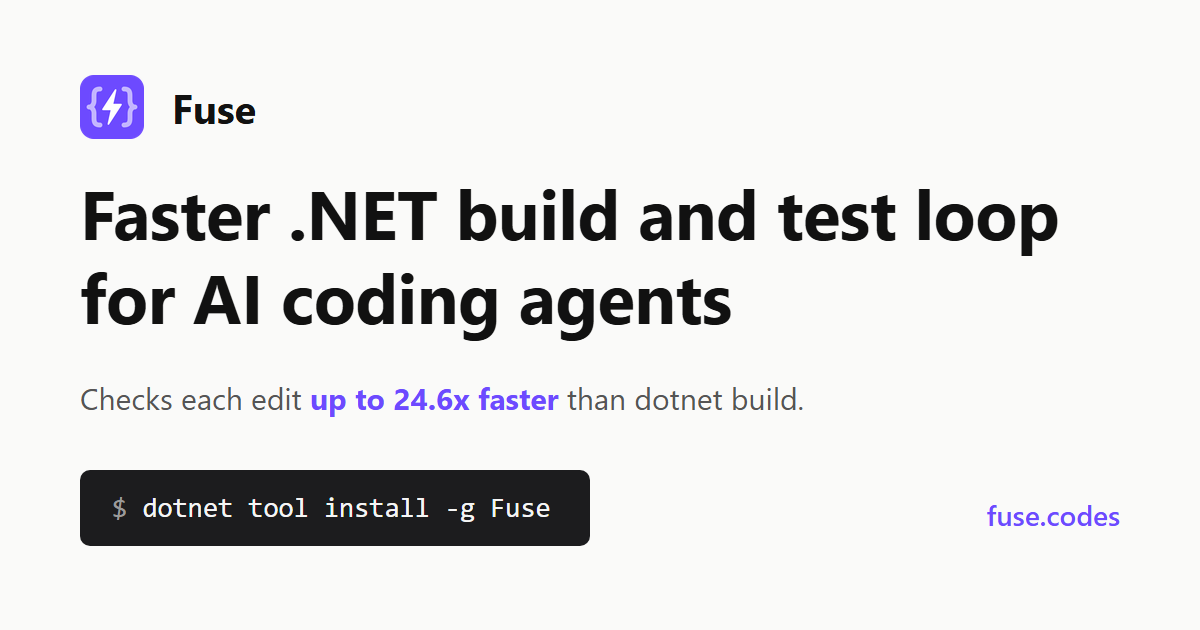
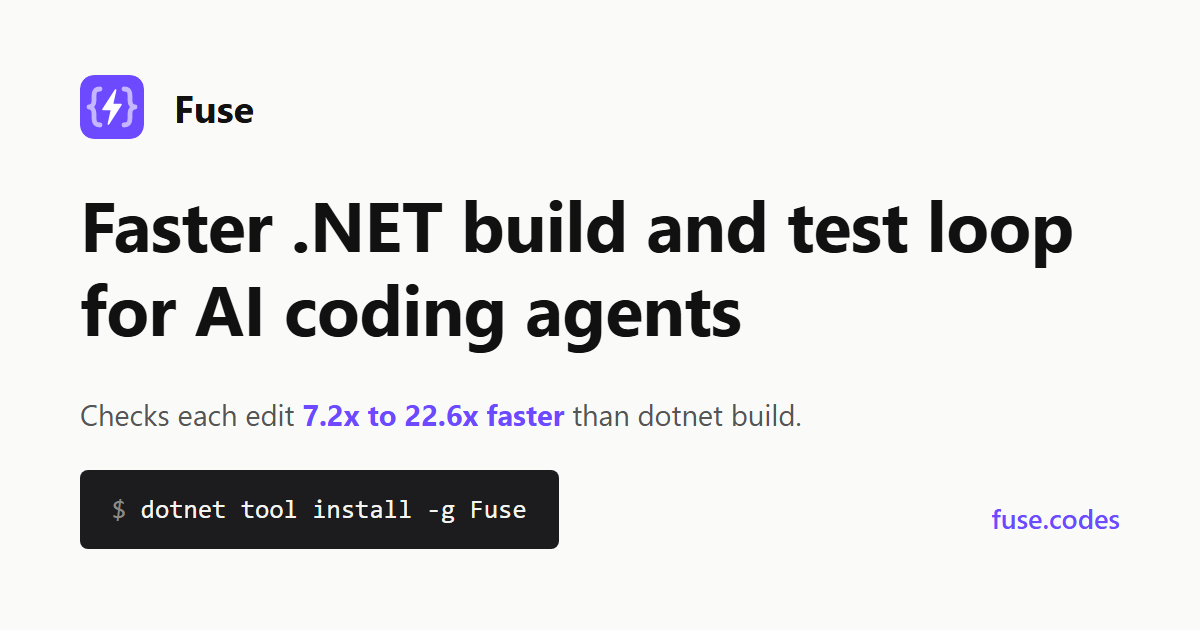
Quote the open-source speedups in the headlines, and the measured test speedup
The headlines quoted the generated fixture's 24.6x check speedup, the most
favorable of the four results, and the README quoted 5.7x for tests, which
is the fixture's dotnet test time in seconds. They now quote 7.2x to 22.6x
on the three open-source repositories and up to 4.4x for tests. The
benchmarks page adds the total time over all 30 edits per repository, and
the chart and the home page show the open-source repositories only.

Closes #64
Closes #76

Assisted-by: Claude Code (claude-opus-5-5)

diff --git a/site/docs/benchmarks.html b/site/docs/benchmarks.html
@@ -20,12 +20,12 @@
 <meta property="og:image:type" content="image/png">
 <meta property="og:image:width" content="1200">
 <meta property="og:image:height" content="630">
-<meta property="og:image:alt" content="The Fuse icon and name above the text: Faster .NET build and test loop for AI coding agents. Checks each edit up to 24.6x faster than dotnet build. dotnet tool install -g Fuse.">
+<meta property="og:image:alt" content="The Fuse icon and name above the text: Faster .NET build and test loop for AI coding agents. Checks each edit 7.2x to 22.6x faster than dotnet build. dotnet tool install -g Fuse.">
 <meta name="twitter:card" content="summary_large_image">
 <meta name="twitter:title" content="Benchmarks">
 <meta name="twitter:description" content="Benchmarks of Fuse against dotnet build and dotnet test on a small fixture and on NodaTime, Jellyfin and the .NET Community Toolkit.">
 <meta name="twitter:image" content="https://fuse.codes/assets/og.png">
-<meta name="twitter:image:alt" content="The Fuse icon and name above the text: Faster .NET build and test loop for AI coding agents. Checks each edit up to 24.6x faster than dotnet build. dotnet tool install -g Fuse.">
+<meta name="twitter:image:alt" content="The Fuse icon and name above the text: Faster .NET build and test loop for AI coding agents. Checks each edit 7.2x to 22.6x faster than dotnet build. dotnet tool install -g Fuse.">
 <link rel="icon" href="../assets/favicon.png" type="image/png" sizes="48x48">
 <link rel="icon" href="../assets/fuse-icon.svg" type="image/svg+xml" sizes="any">
 <link rel="apple-touch-icon" href="../assets/apple-touch-icon.png">
@@ -110,7 +110,7 @@
     <p class="crumbs"><a href="index.html">Docs</a> / Understand</p>
     <h1>Benchmarks</h1>
     <p class="jump"><a href="#docs-nav">All documentation pages</a></p>
-    <p class="intro">On four repositories, Fuse checked an edit 7.2x to 24.6x faster than <code>dotnet build</code> and ran the affected tests 1.4x to 4.4x faster than <code>dotnet test</code>. It missed 1 compiler error in 120 generated cases (168 edits).</p>
+    <p class="intro">On three open-source repositories, Fuse checked an edit 7.2x to 22.6x faster than <code>dotnet build</code> at the median, took 2.5x to 4.2x less time than the build over all 30 edits of each, and ran the affected tests 1.4x to 4.4x faster than <code>dotnet test</code>. On a small generated solution the median check was 24.6x faster. It missed 1 compiler error in 120 generated cases (168 edits).</p>
     <div class="audience">
       <p><b>This page is for</b> anyone deciding whether to rely on Fuse, and contributors comparing a change with the published numbers.</p>
       <p><b>After reading it</b> you know how fast and how accurate Fuse was, on what, and where each number comes from. <a href="evals.html">Evals</a> explains how the numbers are produced and how to reproduce them.</p>
@@ -118,8 +118,8 @@
     <p>The four repositories are a small generated fixture solution and three open-source repositories: <a href="https://github.com/nodatime/nodatime">NodaTime</a>, a date and time library; <a href="https://github.com/jellyfin/jellyfin">Jellyfin</a>, a media server; and the <a href="https://github.com/CommunityToolkit/dotnet">.NET Community Toolkit</a>, a set of libraries with one source generator for each supported compiler version. The evals in <code>evals/Fuse.Evals</code> run the <code>fuse</code> executable the way an agent does, and compare every answer with a real <code>dotnet build</code> or <code>dotnet test</code>. Each repository ran on its own GitHub Actions <code>windows-latest</code> runner, with 4 logical processors and 16 GB of memory, that ran nothing else (<a href="evals.html#on-github-actions">Evals</a>). On Windows x64 the <code>fuse</code> command is the native client, so the evals measure it.</p>
 
     <figure>
-      <img src="../assets/benefits.svg" width="800" height="708" alt="Two panels that compare Fuse with the dotnet command it replaces on four repositories: one for checking an edit and one for running the affected tests. The table below lists every number.">
-      <figcaption>Medians over the eval cases, on GitHub Actions windows-latest runners. Each dotnet bar is 100 percent, and each Fuse bar is Fuse's time as a share of it.</figcaption>
+      <img src="../assets/benefits.svg" width="800" height="708" alt="Two panels that compare Fuse with the dotnet command it replaces on the three open-source repositories: one for checking an edit and one for running the affected tests. The table below lists every number, the small solution's included.">
+      <figcaption>Medians over the eval cases of the three open-source repositories, on GitHub Actions windows-latest runners. Each dotnet bar is 100 percent, and each Fuse bar is Fuse's time as a share of it.</figcaption>
     </figure>
 
     <h2 id="speed-and-accuracy">Speed and accuracy <a class="anchor" href="#speed-and-accuracy" aria-label="Link to this section">#</a></h2>
@@ -131,6 +131,7 @@
         <tbody>
           <tr><th scope="row">Size</th><td>5 projects, 22 tests</td><td>15 projects, 42,700 tests</td><td>40 projects, 2,535 tests</td><td>26 projects, 12,449 tests</td></tr>
           <tr><th scope="row">Check an edit: <code>fuse check</code> vs <code>dotnet build</code>, median</th><td class="num">0.07 s vs 1.78 s (24.6x)</td><td class="num">0.41 s vs 2.96 s (7.2x)</td><td class="num">1.04 s vs 12.4 s (12.0x)</td><td class="num">0.57 s vs 12.8 s (22.6x)</td></tr>
+          <tr><th scope="row">Check an edit: <code>fuse check</code> vs <code>dotnet build</code>, total over the 30 cases</th><td class="num">16.1 s vs 55.1 s (3.4x)</td><td class="num">40.9 s vs 114.8 s (2.8x)</td><td class="num">216.7 s vs 539.1 s (2.5x)</td><td class="num">131.7 s vs 559.6 s (4.2x)</td></tr>
           <tr><th scope="row">Warm check after a body edit, P50 / P95</th><td class="num">56 / 135 ms</td><td class="num">504 / 676 ms</td><td class="num">183 / 420 ms</td><td class="num">822 / 1,168 ms</td></tr>
           <tr><th scope="row">Warm check after a signature edit, P50 / P95</th><td class="num">102 / 5,757 ms</td><td class="num">2,166 / 11,390 ms</td><td class="num">85 / 92,203 ms</td><td class="num">375 / 33,417 ms</td></tr>
           <tr><th scope="row">Warm check of an unchanged tree, P50</th><td class="num">29 ms</td><td class="num">23 ms</td><td class="num">27 ms</td><td class="num">29 ms</td></tr>
@@ -175,6 +176,7 @@
     <h3 id="what-the-time-rows-measure">What the time rows measure <a class="anchor" href="#what-the-time-rows-measure" aria-label="Link to this section">#</a></h3>
     <ul>
       <li><strong>Medians and speedups.</strong> A median is over the 30 correctness cases or the 10 selection cases. The speedup in parentheses is the <code>dotnet</code> median divided by the Fuse median, rounded half up to one decimal, as in the chart.</li>
+      <li><strong>Totals.</strong> The total row adds up <code>fuseMilliseconds</code> and <code>buildSeconds</code> over the 30 correctness cases of each repository, and divides the build total by the Fuse total. It is lower than the median ratio because the slowest checks are slower than the build they replace: the first check after the engine starts, and signature edits that load dependent projects. The slowest single check took 11,624 ms on the small solution, 13,052 ms on NodaTime, 60,524 ms on Jellyfin and 47,497 ms on the Community Toolkit. The total is closer to the time an agent saves over a whole task.</li>
       <li><strong>P50 and P95.</strong> Both use the nearest-rank method. P50 is the 8th fastest of the 15 body edits, which is their median, and the 5th fastest of the 10 signature edits. P95 is the slowest check of each kind.</li>
       <li><strong>The signature-edit P95.</strong> The slowest signature edit is the one that loads the dependent projects and searches them for the first time; the median edit loads nothing. In the signature-edit runs, the slowest <code>loadDependents</code> phase took 30,758 ms on Jellyfin, which checked 27 dependent projects, and 15,019 ms on the Community Toolkit, which checked 12; the slowest <code>referenceSearch</code> phase took 61,242 ms and 17,408 ms.</li>
       <li><strong>An unchanged tree.</strong> A check of a tree with no changes does almost nothing in the engine, so its time is the client's: starting the <code>fuse</code> process, sending the request and reading the answer. The native client needs no .NET runtime to start, which is why it is under 30 ms on every repository.</li>

diff --git a/site/index.html b/site/index.html
@@ -4,7 +4,7 @@
 <meta charset="utf-8">
 <meta name="viewport" content="width=device-width, initial-scale=1">
 <title>Fuse: faster .NET build and test loop for AI coding agents</title>
-<meta name="description" content="Fuse makes dotnet build and dotnet test faster for AI coding agents: it checks each edit up to 24.6x faster than dotnet build and runs only the affected tests.">
+<meta name="description" content="Fuse makes dotnet build and dotnet test faster for AI coding agents: it checks each edit 7.2x to 22.6x faster than dotnet build on open-source repositories and runs only the affected tests.">
 <link rel="canonical" href="https://fuse.codes/">
 <meta name="robots" content="index, follow, max-image-preview:large, max-snippet:-1">
 <meta name="author" content="Litenova Solutions">
@@ -14,18 +14,18 @@
 <meta property="og:site_name" content="Fuse">
 <meta property="og:locale" content="en_US">
 <meta property="og:title" content="Fuse: faster .NET build and test loop for AI coding agents">
-<meta property="og:description" content="Fuse makes dotnet build and dotnet test faster for AI coding agents: it checks each edit up to 24.6x faster than dotnet build and runs only the affected tests.">
+<meta property="og:description" content="Fuse makes dotnet build and dotnet test faster for AI coding agents: it checks each edit 7.2x to 22.6x faster than dotnet build on open-source repositories and runs only the affected tests.">
 <meta property="og:url" content="https://fuse.codes/">
 <meta property="og:image" content="https://fuse.codes/assets/og.png">
 <meta property="og:image:type" content="image/png">
 <meta property="og:image:width" content="1200">
 <meta property="og:image:height" content="630">
-<meta property="og:image:alt" content="The Fuse icon and name above the text: Faster .NET build and test loop for AI coding agents. Checks each edit up to 24.6x faster than dotnet build. dotnet tool install -g Fuse.">
+<meta property="og:image:alt" content="The Fuse icon and name above the text: Faster .NET build and test loop for AI coding agents. Checks each edit 7.2x to 22.6x faster than dotnet build. dotnet tool install -g Fuse.">
 <meta name="twitter:card" content="summary_large_image">
 <meta name="twitter:title" content="Fuse: faster .NET build and test loop for AI coding agents">
-<meta name="twitter:description" content="Fuse makes dotnet build and dotnet test faster for AI coding agents: it checks each edit up to 24.6x faster than dotnet build and runs only the affected tests.">
+<meta name="twitter:description" content="Fuse makes dotnet build and dotnet test faster for AI coding agents: it checks each edit 7.2x to 22.6x faster than dotnet build on open-source repositories and runs only the affected tests.">
 <meta name="twitter:image" content="https://fuse.codes/assets/og.png">
-<meta name="twitter:image:alt" content="The Fuse icon and name above the text: Faster .NET build and test loop for AI coding agents. Checks each edit up to 24.6x faster than dotnet build. dotnet tool install -g Fuse.">
+<meta name="twitter:image:alt" content="The Fuse icon and name above the text: Faster .NET build and test loop for AI coding agents. Checks each edit 7.2x to 22.6x faster than dotnet build. dotnet tool install -g Fuse.">
 <link rel="icon" href="assets/favicon.png" type="image/png" sizes="48x48">
 <link rel="icon" href="assets/fuse-icon.svg" type="image/svg+xml" sizes="any">
 <link rel="apple-touch-icon" href="assets/apple-touch-icon.png">
@@ -72,7 +72,7 @@
       "@id": "https://fuse.codes/#software",
       "name": "Fuse",
       "url": "https://fuse.codes/",
-      "description": "Fuse makes dotnet build and dotnet test faster for AI coding agents. It keeps the solution loaded, reports the compiler errors each edit caused up to 24.6x faster than dotnet build, and runs only the affected tests.",
+      "description": "Fuse makes dotnet build and dotnet test faster for AI coding agents. It keeps the solution loaded, reports the compiler errors each edit caused 7.2x to 22.6x faster than dotnet build on open-source repositories, and runs only the affected tests.",
       "applicationCategory": "DeveloperApplication",
       "operatingSystem": "Windows, Linux, macOS",
       "softwareRequirements": ".NET 10 SDK",
@@ -127,7 +127,7 @@
       <ul class="tags" aria-label="Requirements and license">
         <li>.NET 10 SDK</li><li>C#</li><li>Open Source</li><li>Apache-2.0</li><li>Runs Locally</li>
       </ul>
-      <p>AI agents run <code>dotnet build</code> and <code>dotnet test</code> after every change. Fuse keeps your solution loaded and checks each edit <b>up to 24.6x faster</b>, runs only the affected tests, and shows the agent only what it has to fix.</p>
+      <p>AI agents run <code>dotnet build</code> and <code>dotnet test</code> after every change. Fuse keeps your solution loaded, checks each edit <b>7.2x to 22.6x faster</b> on open-source repositories, runs only the affected tests, and shows the agent only what it has to fix.</p>
       <div class="install">
         <p class="label">Install the tool:</p>
         <div class="cmd"><span><span class="dim">$ </span>dotnet tool install -g Fuse</span><button type="button" data-copy="dotnet tool install -g Fuse" aria-label="Copy dotnet tool install -g Fuse">Copy</button></div>
@@ -140,16 +140,10 @@
     <section class="section" aria-labelledby="check-heading">
       <div class="section-head">
         <p class="kicker">After Every Edit</p>
-        <h2 id="check-heading">Up to 24.6x Faster Than <code>dotnet build</code></h2>
+        <h2 id="check-heading">Up to 22.6x Faster Than <code>dotnet build</code></h2>
         <p>The agent gets only the errors its edit caused, including breaks in other projects.</p>
       </div>
       <div class="repos">
-        <div class="repo">
-          <h3>Small Solution <span>5 projects</span></h3>
-          <div class="lane fuse"><code>fuse check</code><span class="track" aria-hidden="true"><span class="fill" style="width:4.1%"></span></span><span class="t">0.07 s</span></div>
-          <div class="lane"><code>dotnet build</code><span class="track" aria-hidden="true"><span class="fill" style="width:100%"></span></span><span class="t">1.78 s</span></div>
-          <p class="x"><b>24.6x</b> faster</p>
-        </div>
         <div class="repo">
           <h3>Date And Time Library <span><a href="https://github.com/nodatime/nodatime">NodaTime</a>, 15 projects</span></h3>
           <div class="lane fuse"><code>fuse check</code><span class="track" aria-hidden="true"><span class="fill" style="width:13.9%"></span></span><span class="t">0.41 s</span></div>
@@ -179,12 +173,6 @@
         <p>Only the tests the change can reach run, and only failures are printed.</p>
       </div>
       <div class="repos">
-        <div class="repo">
-          <h3>Small Solution <span>22 tests</span></h3>
-          <div class="lane fuse"><code>fuse test</code><span class="track" aria-hidden="true"><span class="fill" style="width:27.2%"></span></span><span class="t">1.57 s</span></div>
-          <div class="lane"><code>dotnet test</code><span class="track" aria-hidden="true"><span class="fill" style="width:100%"></span></span><span class="t">5.77 s</span></div>
-          <p class="x"><b>3.7x</b> faster</p>
-        </div>
         <div class="repo">
           <h3>Date And Time Library <span><a href="https://github.com/nodatime/nodatime">NodaTime</a>, 42,700 tests</span></h3>
           <div class="lane fuse"><code>fuse test</code><span class="track" aria-hidden="true"><span class="fill" style="width:69.3%"></span></span><span class="t">31.8 s</span></div>

diff --git a/site/docs/index.html b/site/docs/index.html
@@ -20,12 +20,12 @@
 <meta property="og:image:type" content="image/png">
 <meta property="og:image:width" content="1200">
 <meta property="og:image:height" content="630">
-<meta property="og:image:alt" content="The Fuse icon and name above the text: Faster .NET build and test loop for AI coding agents. Checks each edit up to 24.6x faster than dotnet build. dotnet tool install -g Fuse.">
+<meta property="og:image:alt" content="The Fuse icon and name above the text: Faster .NET build and test loop for AI coding agents. Checks each edit 7.2x to 22.6x faster than dotnet build. dotnet tool install -g Fuse.">
 <meta name="twitter:card" content="summary_large_image">
 <meta name="twitter:title" content="Fuse Documentation">
 <meta name="twitter:description" content="What Fuse is, what it gives an agent and its subagents, what it costs, the words the documentation uses, and which page answers which question.">
 <meta name="twitter:image" content="https://fuse.codes/assets/og.png">
-<meta name="twitter:image:alt" content="The Fuse icon and name above the text: Faster .NET build and test loop for AI coding agents. Checks each edit up to 24.6x faster than dotnet build. dotnet tool install -g Fuse.">
+<meta name="twitter:image:alt" content="The Fuse icon and name above the text: Faster .NET build and test loop for AI coding agents. Checks each edit 7.2x to 22.6x faster than dotnet build. dotnet tool install -g Fuse.">
 <link rel="icon" href="../assets/favicon.png" type="image/png" sizes="48x48">
 <link rel="icon" href="../assets/fuse-icon.svg" type="image/svg+xml" sizes="any">
 <link rel="apple-touch-icon" href="../assets/apple-touch-icon.png">
@@ -140,7 +140,7 @@
       <li><b>The agent reads the result</b><span>the two callers that broke, or nothing when the edit is clean.</span></li>
     </ol>
     <ul>
-      <li><strong>Faster checks.</strong> 7.2x to 24.6x faster than <code>dotnet build</code> (<a href="benchmarks.html">Benchmarks</a>). A change inside a method body is checked in the edited file only.</li>
+      <li><strong>Faster checks.</strong> 7.2x to 22.6x faster than <code>dotnet build</code> on three open-source repositories (<a href="benchmarks.html">Benchmarks</a>). A change inside a method body is checked in the edited file only.</li>
       <li><strong>Only affected tests.</strong> 1.4x to 4.4x faster than <code>dotnet test</code>. When only <code>.cs</code> files changed, tests run without a rebuild.</li>
       <li><strong>Only new errors.</strong> Errors that were already in the last commit are not reported.</li>
       <li><strong>Breaks in other projects.</strong> Each broken caller is listed with the change that broke it.</li>

diff --git a/site/docs/how-it-works.html b/site/docs/how-it-works.html
@@ -20,12 +20,12 @@
 <meta property="og:image:type" content="image/png">
 <meta property="og:image:width" content="1200">
 <meta property="og:image:height" content="630">
-<meta property="og:image:alt" content="The Fuse icon and name above the text: Faster .NET build and test loop for AI coding agents. Checks each edit up to 24.6x faster than dotnet build. dotnet tool install -g Fuse.">
+<meta property="og:image:alt" content="The Fuse icon and name above the text: Faster .NET build and test loop for AI coding agents. Checks each edit 7.2x to 22.6x faster than dotnet build. dotnet tool install -g Fuse.">
 <meta name="twitter:card" content="summary_large_image">
 <meta name="twitter:title" content="How Fuse Works">
 <meta name="twitter:description" content="How Fuse checks an edit against the commit you have checked out, selects the affected tests, runs them without MSBuild, and keeps several agents from breaking each other's builds.">
 <meta name="twitter:image" content="https://fuse.codes/assets/og.png">
-<meta name="twitter:image:alt" content="The Fuse icon and name above the text: Faster .NET build and test loop for AI coding agents. Checks each edit up to 24.6x faster than dotnet build. dotnet tool install -g Fuse.">
+<meta name="twitter:image:alt" content="The Fuse icon and name above the text: Faster .NET build and test loop for AI coding agents. Checks each edit 7.2x to 22.6x faster than dotnet build. dotnet tool install -g Fuse.">
 <link rel="icon" href="../assets/favicon.png" type="image/png" sizes="48x48">
 <link rel="icon" href="../assets/fuse-icon.svg" type="image/svg+xml" sizes="any">
 <link rel="apple-touch-icon" href="../assets/apple-touch-icon.png">

diff --git a/site/docs/harnesses.html b/site/docs/harnesses.html
@@ -20,12 +20,12 @@
 <meta property="og:image:type" content="image/png">
 <meta property="og:image:width" content="1200">
 <meta property="og:image:height" content="630">
-<meta property="og:image:alt" content="The Fuse icon and name above the text: Faster .NET build and test loop for AI coding agents. Checks each edit up to 24.6x faster than dotnet build. dotnet tool install -g Fuse.">
+<meta property="og:image:alt" content="The Fuse icon and name above the text: Faster .NET build and test loop for AI coding agents. Checks each edit 7.2x to 22.6x faster than dotnet build. dotnet tool install -g Fuse.">
 <meta name="twitter:card" content="summary_large_image">
 <meta name="twitter:title" content="Connect Your Agent">
 <meta name="twitter:description" content="What fuse init detects and writes for Claude Code, Cursor, Gemini CLI, Codex, GitHub Copilot CLI, OpenCode and VS Code, and how any MCP host runs fuse mcp.">
 <meta name="twitter:image" content="https://fuse.codes/assets/og.png">
-<meta name="twitter:image:alt" content="The Fuse icon and name above the text: Faster .NET build and test loop for AI coding agents. Checks each edit up to 24.6x faster than dotnet build. dotnet tool install -g Fuse.">
+<meta name="twitter:image:alt" content="The Fuse icon and name above the text: Faster .NET build and test loop for AI coding agents. Checks each edit 7.2x to 22.6x faster than dotnet build. dotnet tool install -g Fuse.">
 <link rel="icon" href="../assets/favicon.png" type="image/png" sizes="48x48">
 <link rel="icon" href="../assets/fuse-icon.svg" type="image/svg+xml" sizes="any">
 <link rel="apple-touch-icon" href="../assets/apple-touch-icon.png">

diff --git a/site/docs/architecture.html b/site/docs/architecture.html
@@ -20,12 +20,12 @@
 <meta property="og:image:type" content="image/png">
 <meta property="og:image:width" content="1200">
 <meta property="og:image:height" content="630">
-<meta property="og:image:alt" content="The Fuse icon and name above the text: Faster .NET build and test loop for AI coding agents. Checks each edit up to 24.6x faster than dotnet build. dotnet tool install -g Fuse.">
+<meta property="og:image:alt" content="The Fuse icon and name above the text: Faster .NET build and test loop for AI coding agents. Checks each edit 7.2x to 22.6x faster than dotnet build. dotnet tool install -g Fuse.">
 <meta name="twitter:card" content="summary_large_image">
 <meta name="twitter:title" content="Architecture">
 <meta name="twitter:description" content="How Fuse's code is organized: its layers, which namespace may use which, the order to read it in, and the words its types are named with.">
 <meta name="twitter:image" content="https://fuse.codes/assets/og.png">
-<meta name="twitter:image:alt" content="The Fuse icon and name above the text: Faster .NET build and test loop for AI coding agents. Checks each edit up to 24.6x faster than dotnet build. dotnet tool install -g Fuse.">
+<meta name="twitter:image:alt" content="The Fuse icon and name above the text: Faster .NET build and test loop for AI coding agents. Checks each edit 7.2x to 22.6x faster than dotnet build. dotnet tool install -g Fuse.">
 <link rel="icon" href="../assets/favicon.png" type="image/png" sizes="48x48">
 <link rel="icon" href="../assets/fuse-icon.svg" type="image/svg+xml" sizes="any">
 <link rel="apple-touch-icon" href="../assets/apple-touch-icon.png">

diff --git a/site/docs/faq.html b/site/docs/faq.html
@@ -20,12 +20,12 @@
 <meta property="og:image:type" content="image/png">
 <meta property="og:image:width" content="1200">
 <meta property="og:image:height" content="630">
-<meta property="og:image:alt" content="The Fuse icon and name above the text: Faster .NET build and test loop for AI coding agents. Checks each edit up to 24.6x faster than dotnet build. dotnet tool install -g Fuse.">
+<meta property="og:image:alt" content="The Fuse icon and name above the text: Faster .NET build and test loop for AI coding agents. Checks each edit 7.2x to 22.6x faster than dotnet build. dotnet tool install -g Fuse.">
 <meta name="twitter:card" content="summary_large_image">
 <meta name="twitter:title" content="FAQ">
 <meta name="twitter:description" content="Common questions about Fuse, and how it differs from language servers, Roslyn MCP servers, code search tools and test impact analysis tools.">
 <meta name="twitter:image" content="https://fuse.codes/assets/og.png">
-<meta name="twitter:image:alt" content="The Fuse icon and name above the text: Faster .NET build and test loop for AI coding agents. Checks each edit up to 24.6x faster than dotnet build. dotnet tool install -g Fuse.">
+<meta name="twitter:image:alt" content="The Fuse icon and name above the text: Faster .NET build and test loop for AI coding agents. Checks each edit 7.2x to 22.6x faster than dotnet build. dotnet tool install -g Fuse.">
 <link rel="icon" href="../assets/favicon.png" type="image/png" sizes="48x48">
 <link rel="icon" href="../assets/fuse-icon.svg" type="image/svg+xml" sizes="any">
 <link rel="apple-touch-icon" href="../assets/apple-touch-icon.png">

diff --git a/site/docs/evals.html b/site/docs/evals.html
@@ -20,12 +20,12 @@
 <meta property="og:image:type" content="image/png">
 <meta property="og:image:width" content="1200">
 <meta property="og:image:height" content="630">
-<meta property="og:image:alt" content="The Fuse icon and name above the text: Faster .NET build and test loop for AI coding agents. Checks each edit up to 24.6x faster than dotnet build. dotnet tool install -g Fuse.">
+<meta property="og:image:alt" content="The Fuse icon and name above the text: Faster .NET build and test loop for AI coding agents. Checks each edit 7.2x to 22.6x faster than dotnet build. dotnet tool install -g Fuse.">
 <meta name="twitter:card" content="summary_large_image">
 <meta name="twitter:title" content="Evals">
 <meta name="twitter:description" content="How the correctness, test selection and latency evals measure Fuse against real dotnet build and dotnet test runs, and how to run them.">
 <meta name="twitter:image" content="https://fuse.codes/assets/og.png">
-<meta name="twitter:image:alt" content="The Fuse icon and name above the text: Faster .NET build and test loop for AI coding agents. Checks each edit up to 24.6x faster than dotnet build. dotnet tool install -g Fuse.">
+<meta name="twitter:image:alt" content="The Fuse icon and name above the text: Faster .NET build and test loop for AI coding agents. Checks each edit 7.2x to 22.6x faster than dotnet build. dotnet tool install -g Fuse.">
 <link rel="icon" href="../assets/favicon.png" type="image/png" sizes="48x48">
 <link rel="icon" href="../assets/fuse-icon.svg" type="image/svg+xml" sizes="any">
 <link rel="apple-touch-icon" href="../assets/apple-touch-icon.png">

diff --git a/site/docs/getting-started.html b/site/docs/getting-started.html
@@ -20,12 +20,12 @@
 <meta property="og:image:type" content="image/png">
 <meta property="og:image:width" content="1200">
 <meta property="og:image:height" content="630">
-<meta property="og:image:alt" content="The Fuse icon and name above the text: Faster .NET build and test loop for AI coding agents. Checks each edit up to 24.6x faster than dotnet build. dotnet tool install -g Fuse.">
+<meta property="og:image:alt" content="The Fuse icon and name above the text: Faster .NET build and test loop for AI coding agents. Checks each edit 7.2x to 22.6x faster than dotnet build. dotnet tool install -g Fuse.">
 <meta name="twitter:card" content="summary_large_image">
 <meta name="twitter:title" content="Getting Started">
 <meta name="twitter:description" content="Install Fuse, set it up in your .NET repository, and see what it reports for an edit and a failing test.">
 <meta name="twitter:image" content="https://fuse.codes/assets/og.png">
-<meta name="twitter:image:alt" content="The Fuse icon and name above the text: Faster .NET build and test loop for AI coding agents. Checks each edit up to 24.6x faster than dotnet build. dotnet tool install -g Fuse.">
+<meta name="twitter:image:alt" content="The Fuse icon and name above the text: Faster .NET build and test loop for AI coding agents. Checks each edit 7.2x to 22.6x faster than dotnet build. dotnet tool install -g Fuse.">
 <link rel="icon" href="../assets/favicon.png" type="image/png" sizes="48x48">
 <link rel="icon" href="../assets/fuse-icon.svg" type="image/svg+xml" sizes="any">
 <link rel="apple-touch-icon" href="../assets/apple-touch-icon.png">

diff --git a/site/docs/troubleshooting.html b/site/docs/troubleshooting.html
@@ -20,12 +20,12 @@
 <meta property="og:image:type" content="image/png">
 <meta property="og:image:width" content="1200">
 <meta property="og:image:height" content="630">
-<meta property="og:image:alt" content="The Fuse icon and name above the text: Faster .NET build and test loop for AI coding agents. Checks each edit up to 24.6x faster than dotnet build. dotnet tool install -g Fuse.">
+<meta property="og:image:alt" content="The Fuse icon and name above the text: Faster .NET build and test loop for AI coding agents. Checks each edit 7.2x to 22.6x faster than dotnet build. dotnet tool install -g Fuse.">
 <meta name="twitter:card" content="summary_large_image">
 <meta name="twitter:title" content="Troubleshooting">
 <meta name="twitter:description" content="Why Fuse is silent, slow or failing, where its logs are, how to read them, and how to stop the engine.">
 <meta name="twitter:image" content="https://fuse.codes/assets/og.png">
-<meta name="twitter:image:alt" content="The Fuse icon and name above the text: Faster .NET build and test loop for AI coding agents. Checks each edit up to 24.6x faster than dotnet build. dotnet tool install -g Fuse.">
+<meta name="twitter:image:alt" content="The Fuse icon and name above the text: Faster .NET build and test loop for AI coding agents. Checks each edit 7.2x to 22.6x faster than dotnet build. dotnet tool install -g Fuse.">
 <link rel="icon" href="../assets/favicon.png" type="image/png" sizes="48x48">
 <link rel="icon" href="../assets/fuse-icon.svg" type="image/svg+xml" sizes="any">
 <link rel="apple-touch-icon" href="../assets/apple-touch-icon.png">

diff --git a/site/docs/ai-policy.html b/site/docs/ai-policy.html
@@ -20,12 +20,12 @@
 <meta property="og:image:type" content="image/png">
 <meta property="og:image:width" content="1200">
 <meta property="og:image:height" content="630">
-<meta property="og:image:alt" content="The Fuse icon and name above the text: Faster .NET build and test loop for AI coding agents. Checks each edit up to 24.6x faster than dotnet build. dotnet tool install -g Fuse.">
+<meta property="og:image:alt" content="The Fuse icon and name above the text: Faster .NET build and test loop for AI coding agents. Checks each edit 7.2x to 22.6x faster than dotnet build. dotnet tool install -g Fuse.">
 <meta name="twitter:card" content="summary_large_image">
 <meta name="twitter:title" content="AI Policy">
 <meta name="twitter:description" content="How AI tools and coding agents may be used to contribute to Fuse, and what a person stays responsible for.">
 <meta name="twitter:image" content="https://fuse.codes/assets/og.png">
-<meta name="twitter:image:alt" content="The Fuse icon and name above the text: Faster .NET build and test loop for AI coding agents. Checks each edit up to 24.6x faster than dotnet build. dotnet tool install -g Fuse.">
+<meta name="twitter:image:alt" content="The Fuse icon and name above the text: Faster .NET build and test loop for AI coding agents. Checks each edit 7.2x to 22.6x faster than dotnet build. dotnet tool install -g Fuse.">
 <link rel="icon" href="../assets/favicon.png" type="image/png" sizes="48x48">
 <link rel="icon" href="../assets/fuse-icon.svg" type="image/svg+xml" sizes="any">
 <link rel="apple-touch-icon" href="../assets/apple-touch-icon.png">

diff --git a/site/docs/limits.html b/site/docs/limits.html
@@ -20,12 +20,12 @@
 <meta property="og:image:type" content="image/png">
 <meta property="og:image:width" content="1200">
 <meta property="og:image:height" content="630">
-<meta property="og:image:alt" content="The Fuse icon and name above the text: Faster .NET build and test loop for AI coding agents. Checks each edit up to 24.6x faster than dotnet build. dotnet tool install -g Fuse.">
+<meta property="og:image:alt" content="The Fuse icon and name above the text: Faster .NET build and test loop for AI coding agents. Checks each edit 7.2x to 22.6x faster than dotnet build. dotnet tool install -g Fuse.">
 <meta name="twitter:card" content="summary_large_image">
 <meta name="twitter:title" content="Limits">
 <meta name="twitter:description" content="What Fuse cannot check, where it differs from dotnet build and dotnet test, and what to do about each case.">
 <meta name="twitter:image" content="https://fuse.codes/assets/og.png">
-<meta name="twitter:image:alt" content="The Fuse icon and name above the text: Faster .NET build and test loop for AI coding agents. Checks each edit up to 24.6x faster than dotnet build. dotnet tool install -g Fuse.">
+<meta name="twitter:image:alt" content="The Fuse icon and name above the text: Faster .NET build and test loop for AI coding agents. Checks each edit 7.2x to 22.6x faster than dotnet build. dotnet tool install -g Fuse.">
 <link rel="icon" href="../assets/favicon.png" type="image/png" sizes="48x48">
 <link rel="icon" href="../assets/fuse-icon.svg" type="image/svg+xml" sizes="any">
 <link rel="apple-touch-icon" href="../assets/apple-touch-icon.png">
